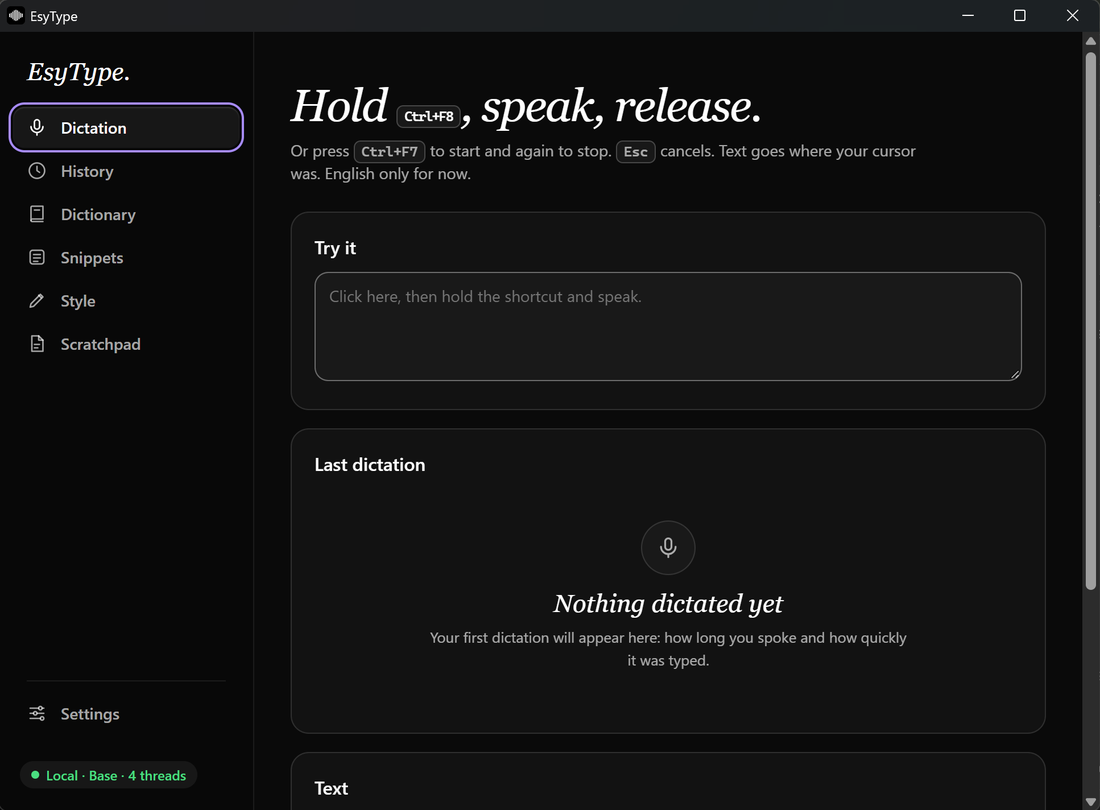
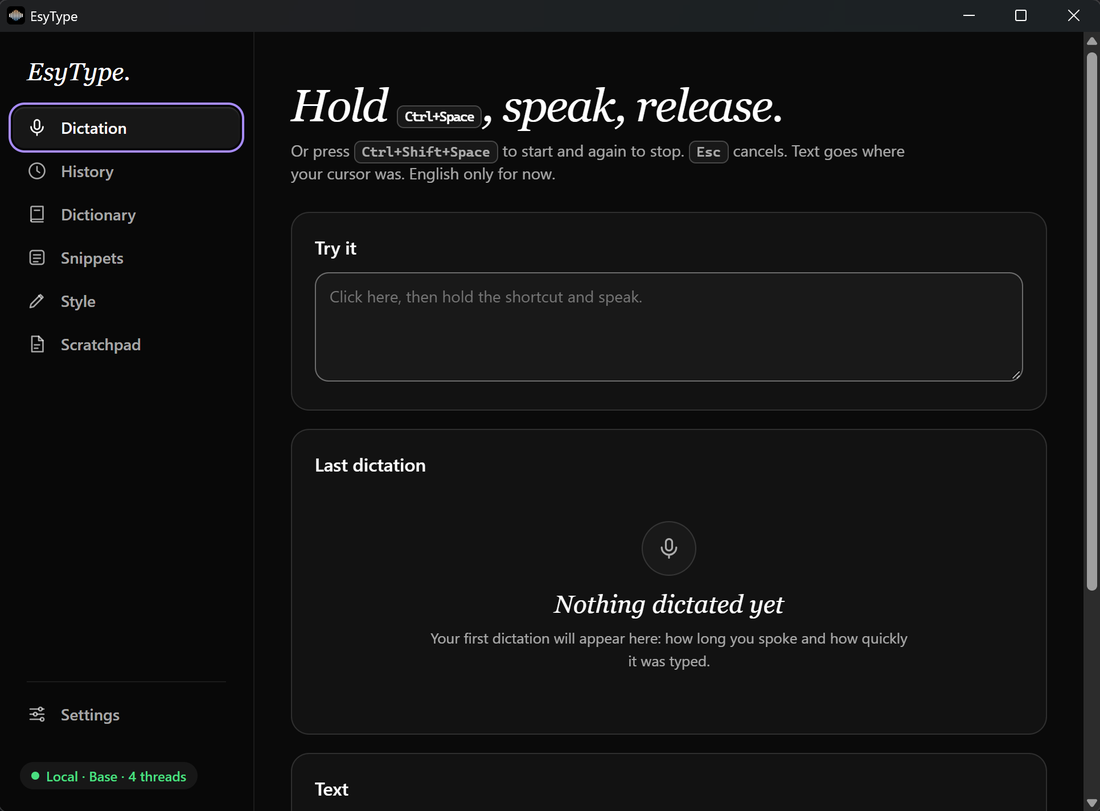
README: default shortcuts are Ctrl+Space and Ctrl+Shift+Space
The Dictation screenshot and the How it works steps showed Ctrl+F8 and
Ctrl+F7, the shortcuts the test profile uses. Retaken with the app's
own defaults.

diff --git a/README.md b/README.md
@@ -23,7 +23,7 @@ To remove it: Windows Settings → Apps → EsyType → Uninstall. Tick "Also de
 
 ## How it works
 
-1. **Hold `Ctrl+F8`, speak, release.** Or press `Ctrl+F7` to start and again to stop. `Esc` cancels. You can change both shortcuts.
+1. **Hold `Ctrl+Space`, speak, release.** Or press `Ctrl+Shift+Space` to start and again to stop. `Esc` cancels. You can change both shortcuts in Settings.
 2. A small pill shows that EsyType is listening, then working.
 3. Your speech is transcribed **on your PC** by [whisper.cpp](https://github.com/ggerganov/whisper.cpp). A voice-activity detector (Silero VAD) skips silence.
 4. The text is tidied up and typed **into the window you started in**. If that window has gone, EsyType copies the text instead of typing it somewhere else.
